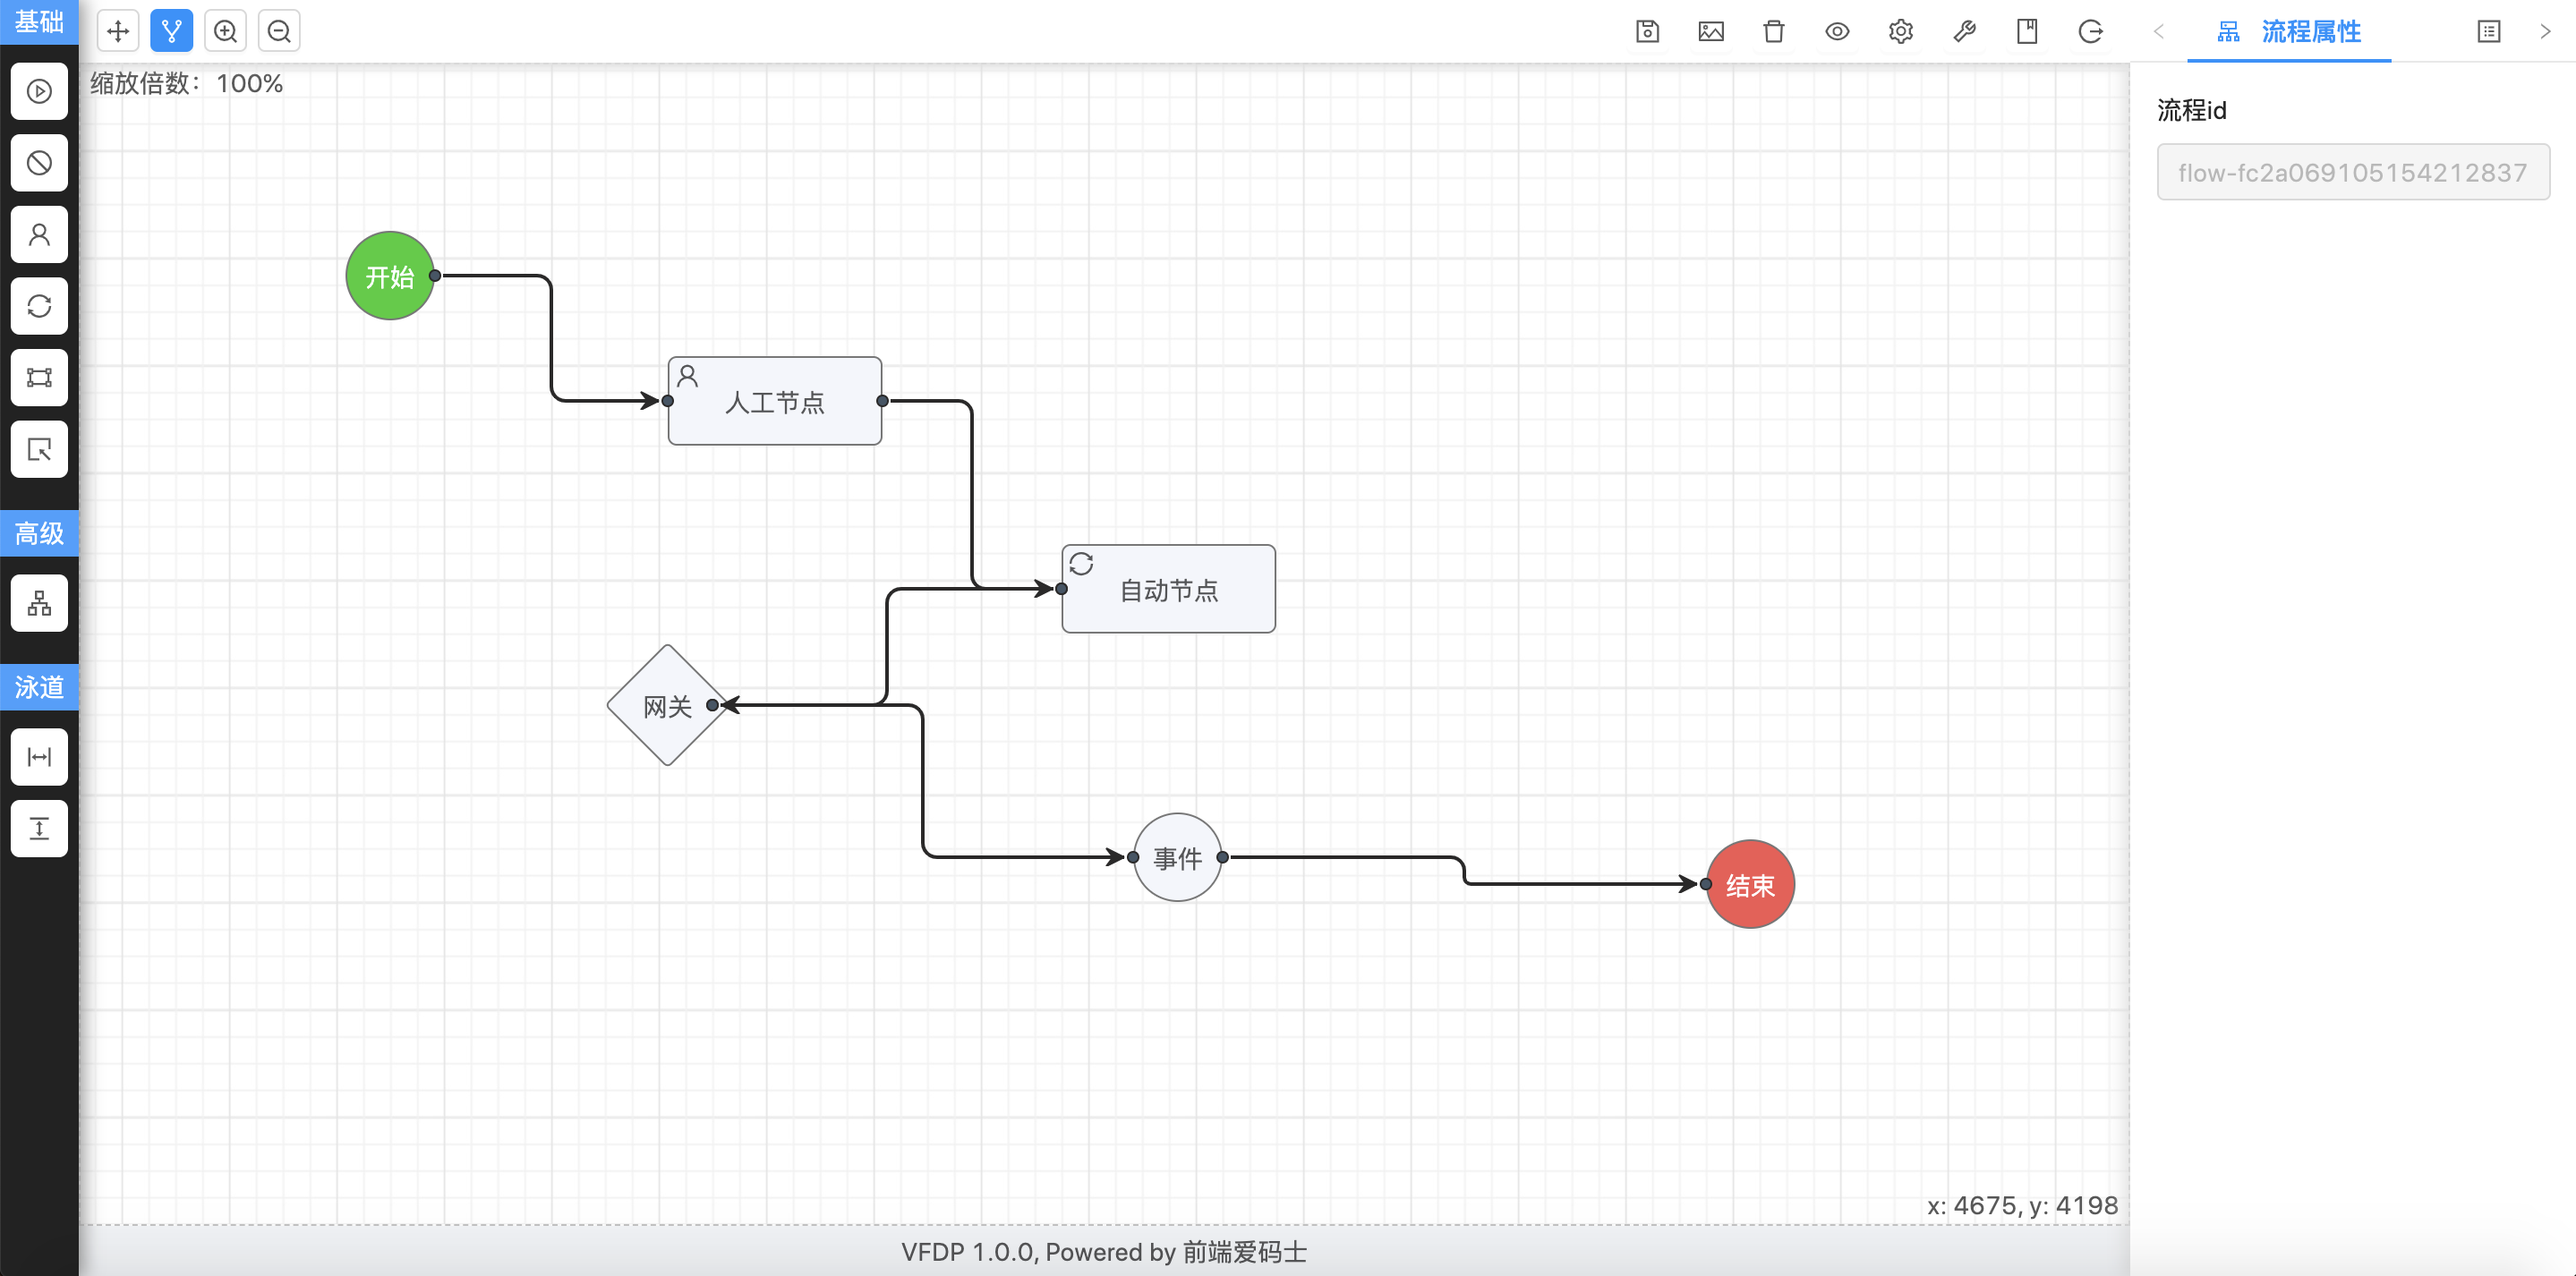
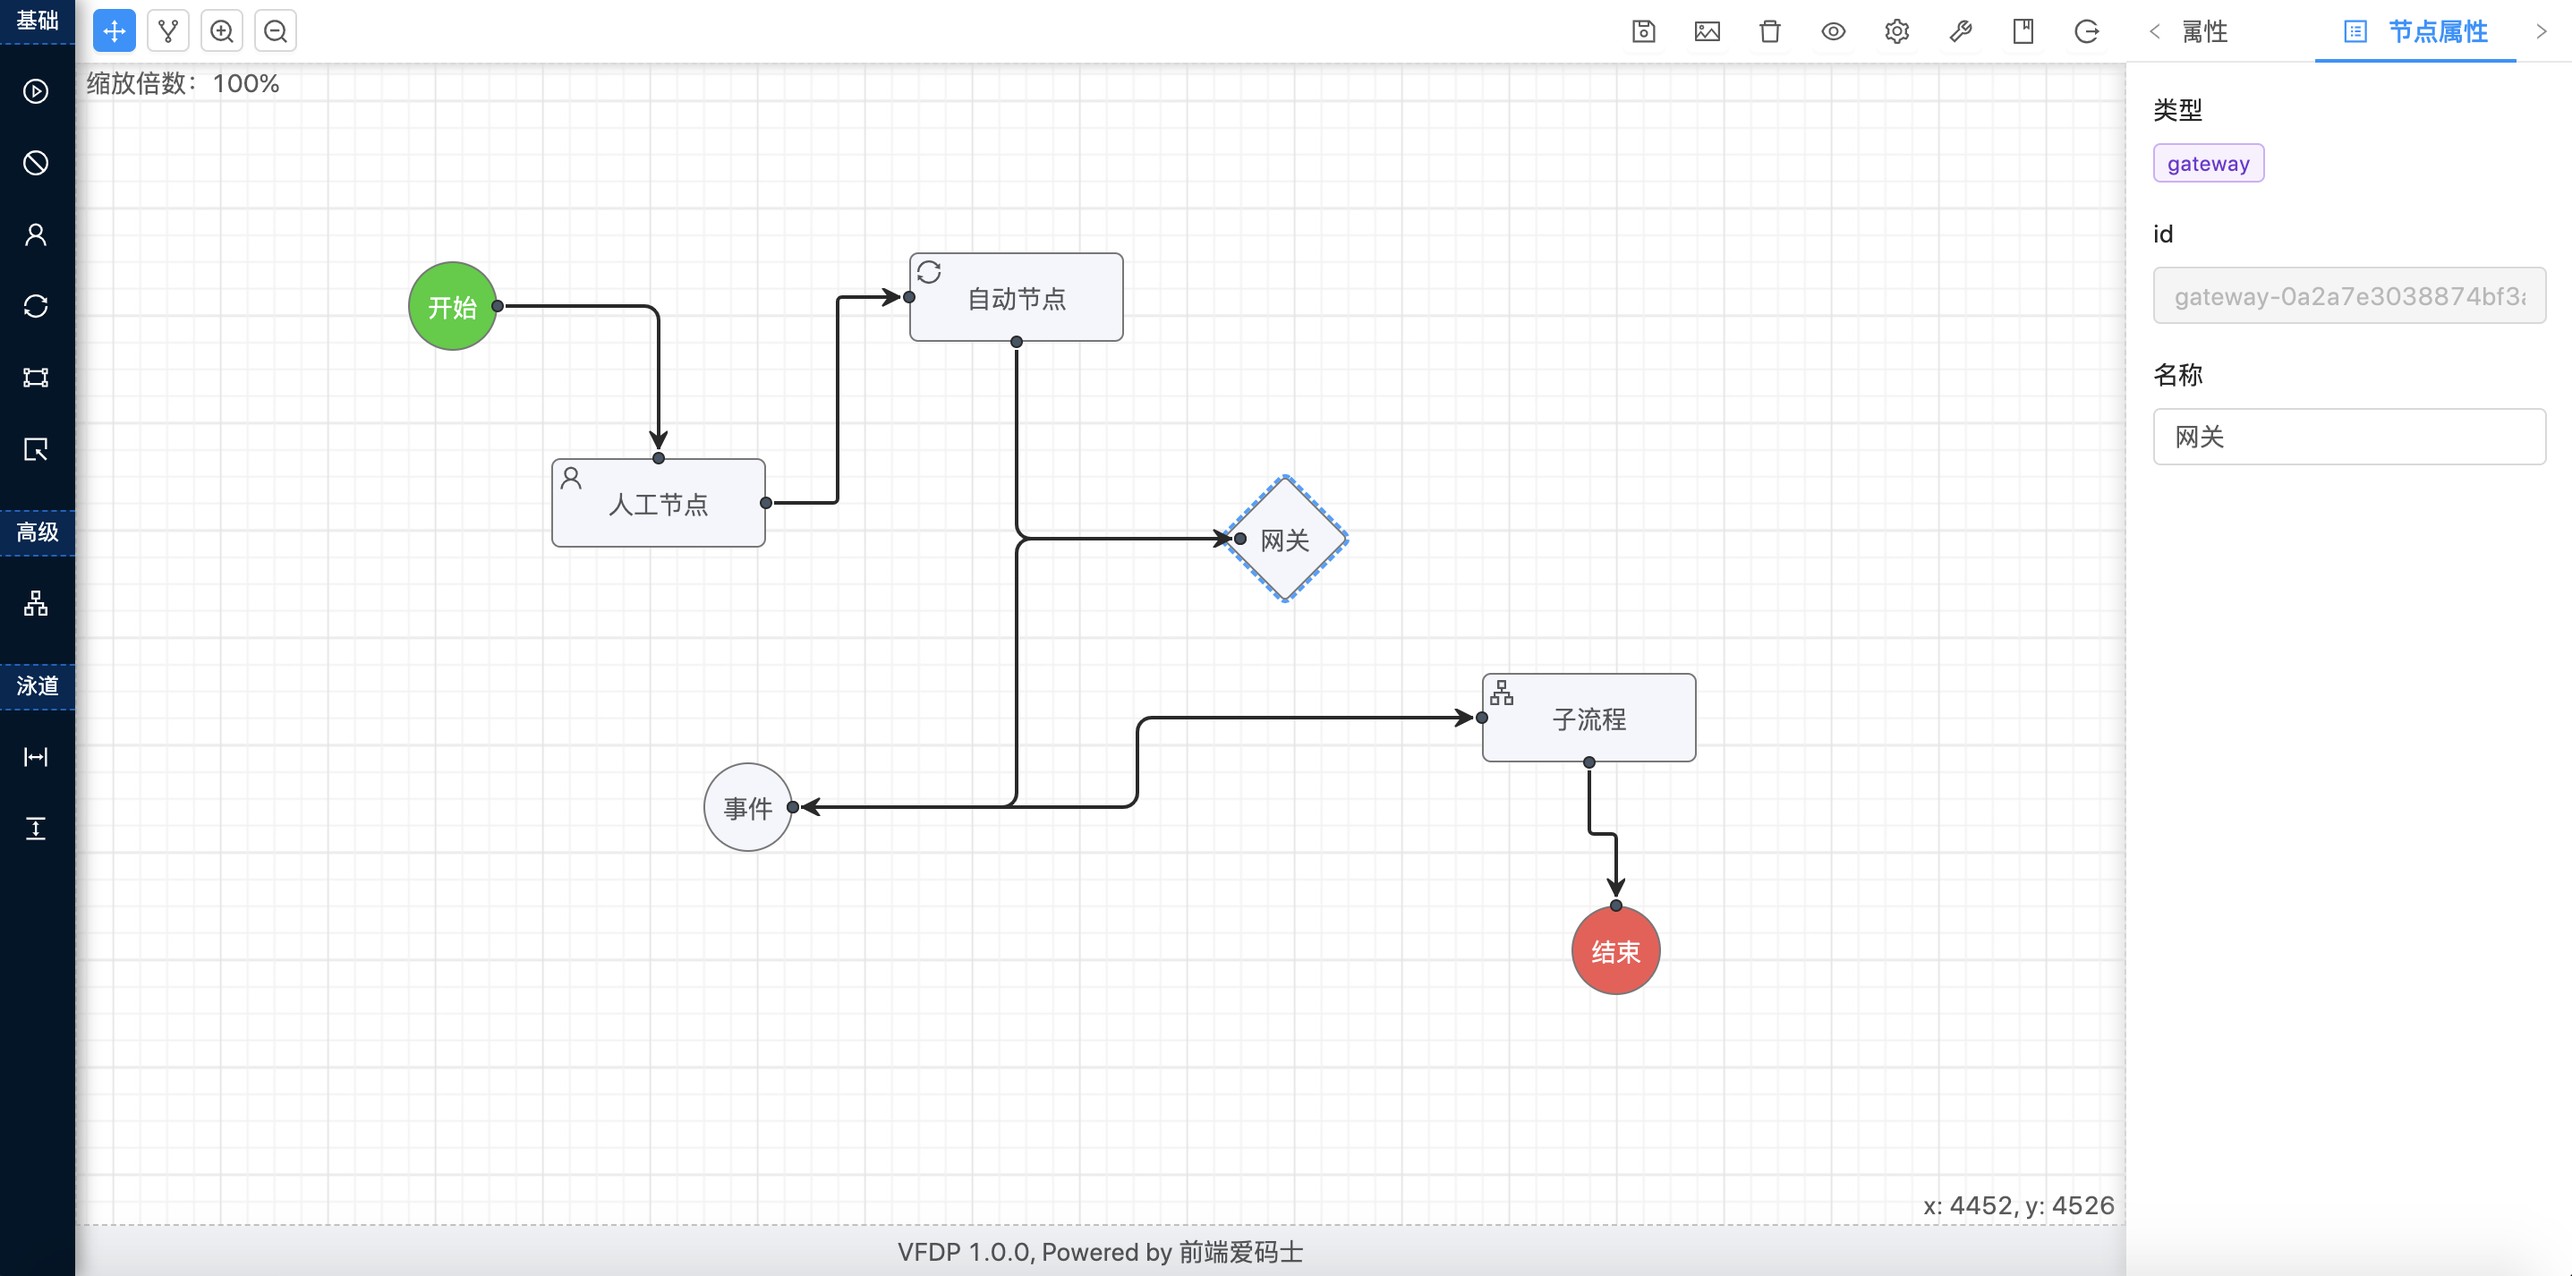
modify: 修改左边栏样式

diff --git a/src/components/flow/designer/style/flow-designer.scss b/src/components/flow/designer/style/flow-designer.scss
@@ -1,4 +1,4 @@
-$primary-color: #409EFF;
+$primary-color: #0960bd;
 
 .container {
   height: 100%;
@@ -18,17 +18,20 @@ $primary-color: #409EFF;
 }
 
 .select-area {
-  background-color: #222;
+  background-color: #001529;
   position: relative;
   z-index: 10000;
   box-shadow: 3px 0 10px #999;
   .tab {
-    background-color: $primary-color;
+    background-color: #002752;
+    border-top: 1px dashed $primary-color;
+    border-bottom: 1px dashed $primary-color;
+    border-left: 2px solid $primary-color;
     text-align: center;
     margin-bottom: 10px;
-    font-size: 14px;
+    font-size: 12px;
     height: 26px;
-    line-height: 26px;
+    line-height: 22px;
     color: #fff;
   }
   .ant-row {
@@ -78,28 +81,10 @@ $primary-color: #409EFF;
   margin: 6px;
 }
 
-.tool-item {
-  background: #f4f6fc;
-  height: 32px;
-  line-height: 32px;
-  margin: 5px;
-  padding-left: 8px;
-  text-align: center;
-  cursor: pointer;
-
-  &:hover {
-    background: #d2d3d6;
-  }
-
-  &.active {
-    background: black;
-  }
-}
-
 .node-item {
-  background: #fff;
   height: 32px;
   width: 32px;
+  color: #fff;
   border-radius: 5px;
   line-height: 32px;
   text-align: left;

diff --git a/index.html b/index.html
@@ -136,7 +136,7 @@
         top: 0;
         width: 51%;
         height: 100%;
-        background: #409EFF;
+        background: #0960bd;
         /* Old browsers */
         z-index: 99;
         -webkit-transform: translateX(0);
